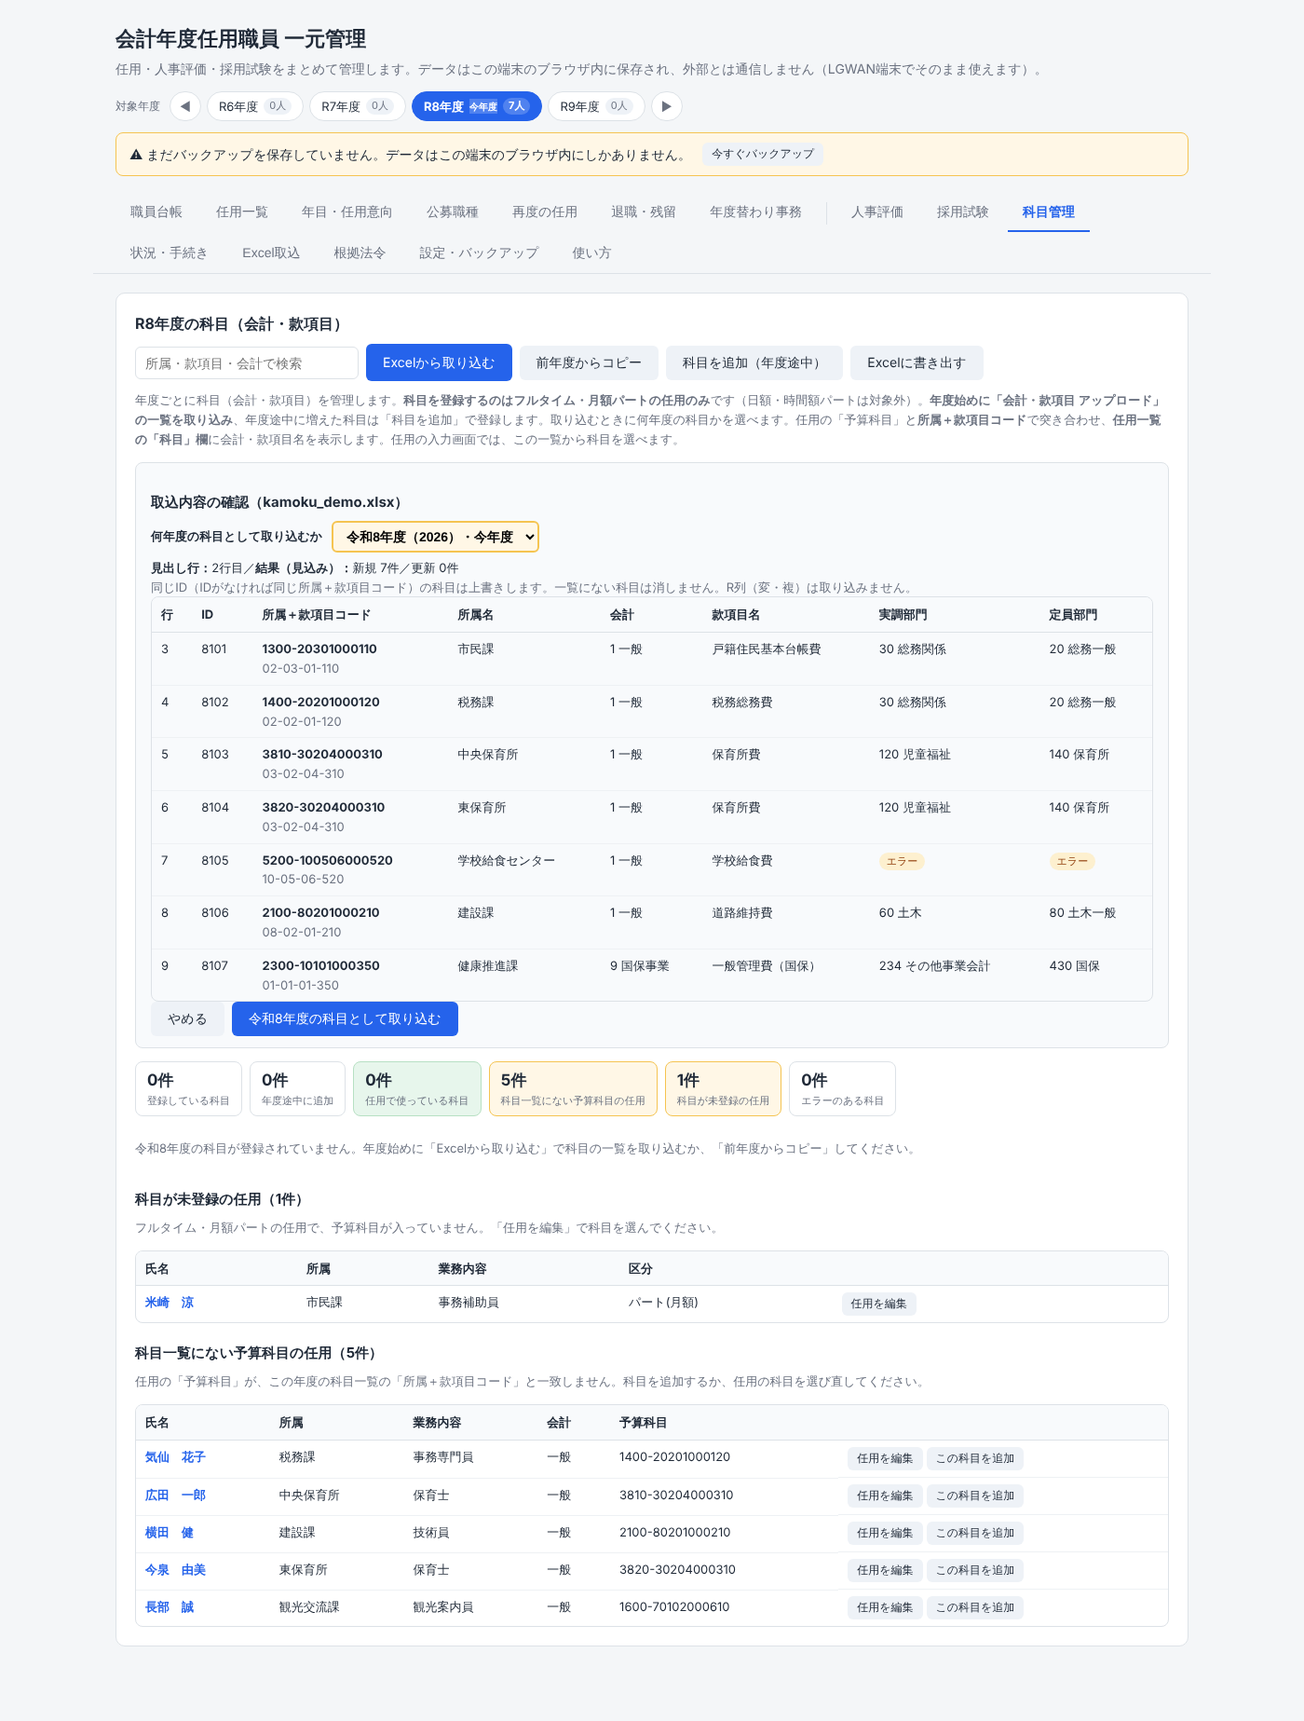
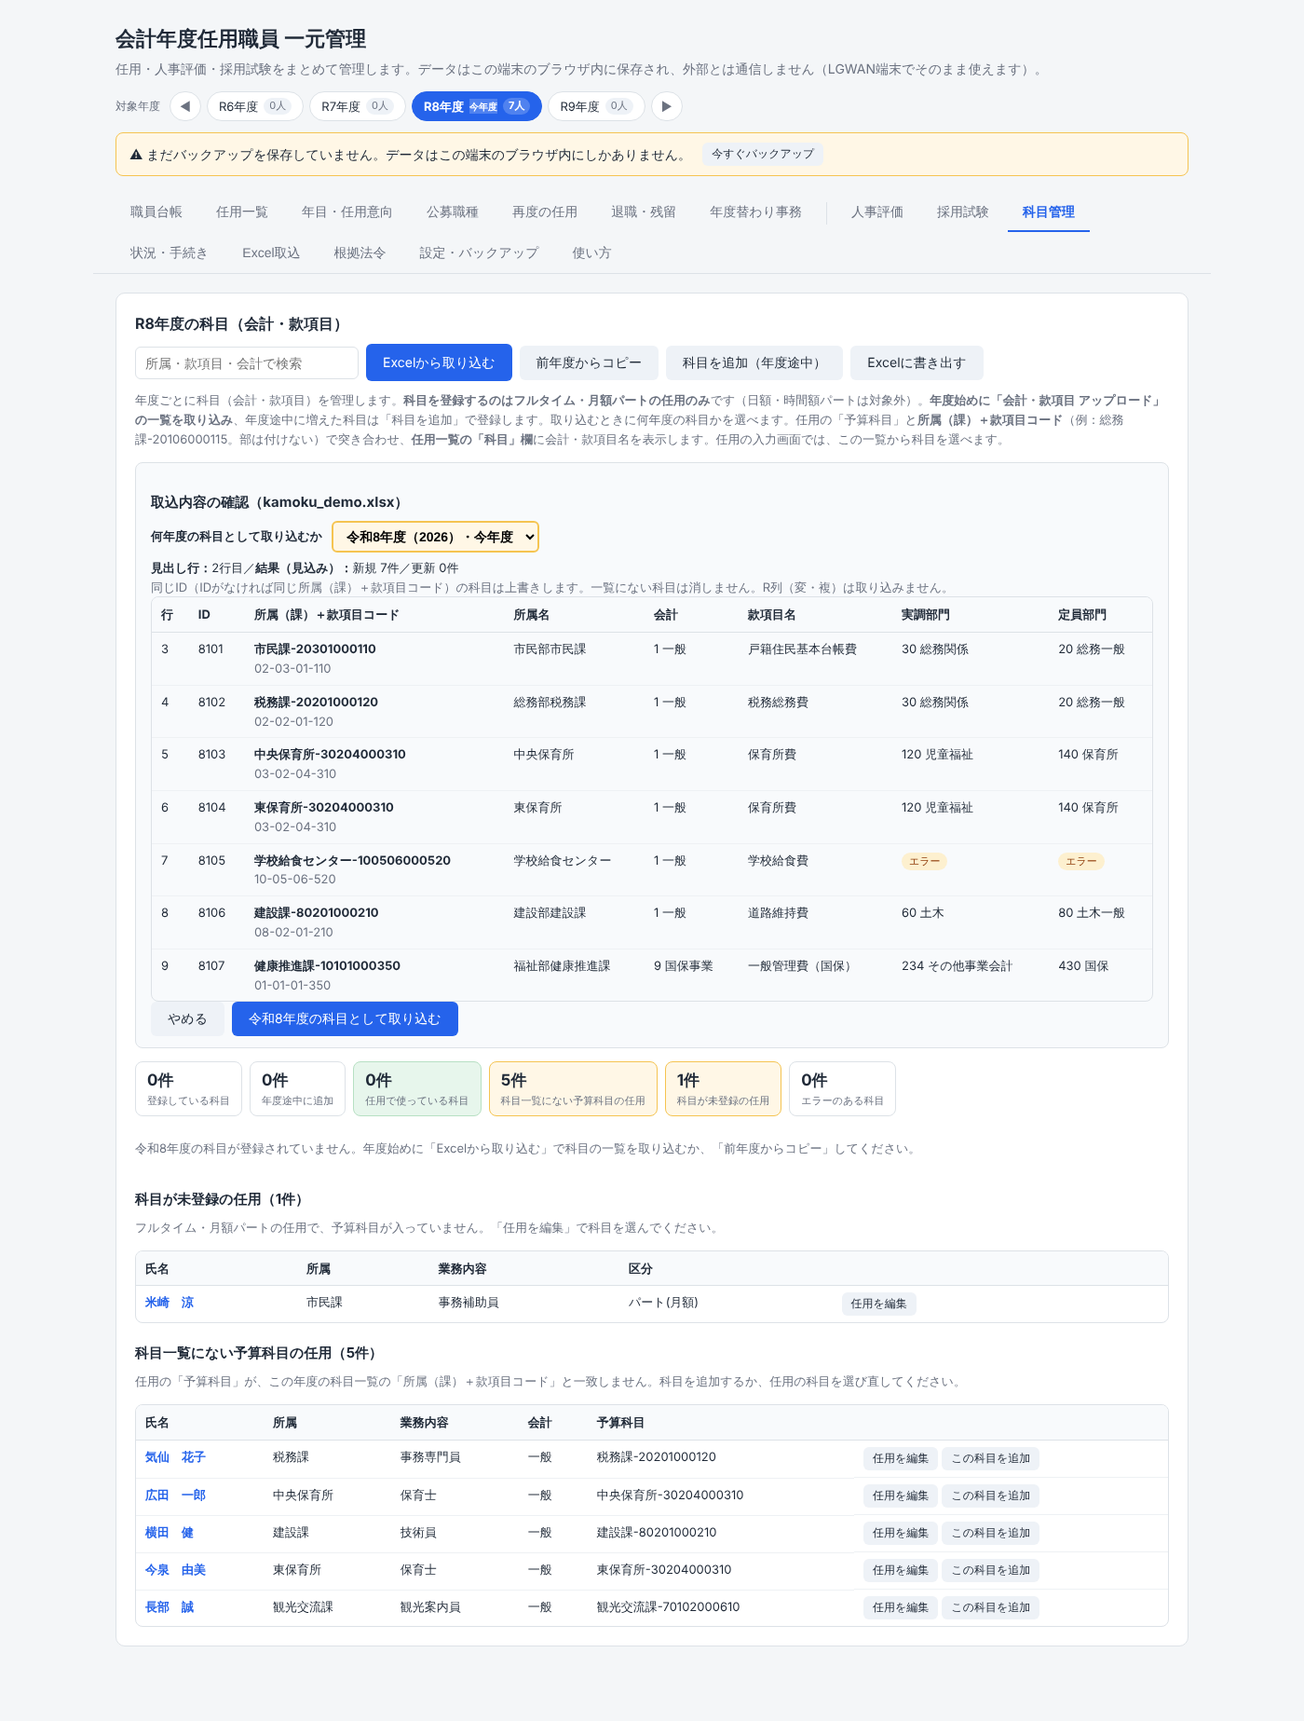
科目の表記を所属（課。部は付けない）＋款項目コードにする
Claude-Session: https://claude.ai/code/session_01TV6gLjN2w3tfB3MhK9eTKV

diff --git a/js/app.js b/js/app.js
@@ -615,7 +615,7 @@ function appointFields(fy = currentFy(), deptCode = '') {
     { key: 'title', label: '業務内容', required: true, placeholder: '例：保育士、事務補助員' },
     { key: 'kamokuSel', label: '科目（科目管理の一覧から選ぶ）', type: 'select', options: kamokuOptions(fy, deptCode), full: true, hint: 'フルタイム・月額パートのみ登録します（日額・時間額パートは対象外）。選ぶと会計・予算科目に入ります。一覧にない科目は科目管理で追加してください' },
     { key: 'account', label: '会計' },
-    { key: 'budgetCode', label: '予算科目', hint: '所属＋款項目コード（例：1050-20106000115）' },
+    { key: 'budgetCode', label: '予算科目', hint: '所属（課）＋款項目コード（例：総務課-20106000115）' },
     { type: 'heading', label: '任用期間・勤務時間' },
     { key: 'kubun', label: '区分', type: 'select', options: KUBUN_OPTIONS },
     { key: 'start', label: '任用期間（開始）', type: 'date', required: true },
@@ -2436,14 +2436,14 @@ function kamokuCell(a) {
 /** 任用の入力画面の科目の選択肢（同じ所属CDの科目を先に並べる） */
 function kamokuOptions(fy, deptCode) {
   const list = C.kamokuOfFy(DATA, fy).slice().sort((a, b) => (String(b.deptCode) === String(deptCode || '')) - (String(a.deptCode) === String(deptCode || ''))
-    || C.kamokuKey(a).localeCompare(C.kamokuKey(b)));
+    || String(a.deptCode).localeCompare(String(b.deptCode)) || String(a.code).localeCompare(String(b.code)));
   return [['', list.length ? '（選ばない・手入力）' : `${C.fyLabel(fy)}の科目が未登録です（科目管理で登録）`],
     ...list.map((k) => [k.id, `${kamokuLabel(k)}（${k.account}／${k.dept}）`])];
 }
 function renderKamoku() {
   const fy = currentFy();
   const q = document.getElementById('kamoku-search').value.trim();
-  const all = C.kamokuOfFy(DATA, fy).slice().sort((a, b) => C.kamokuKey(a).localeCompare(C.kamokuKey(b)));
+  const all = C.kamokuOfFy(DATA, fy).slice().sort((a, b) => String(a.deptCode).localeCompare(String(b.deptCode)) || String(a.code).localeCompare(String(b.code)));
   const rows = all.filter((k) => !q || C.KAMOKU_FIELDS.some(([f]) => String(k[f] || '').includes(q)));
   const used = new Map(all.map((k) => [k.id, C.appointmentsOfKamoku(DATA, k).length]));
   const targets = DATA.appointments.filter((a) => a.status !== 'canceled' && a.start && C.fiscalYearOf(a.start) === fy && C.kamokuApplies(a));
@@ -2459,7 +2459,7 @@ function renderKamoku() {
     ['エラーのある科目', `${all.filter((k) => C.KAMOKU_FIELDS.some(([f]) => /エラー/.test(k[f] || ''))).length}件`],
   ]);
   document.getElementById('kamoku-table').innerHTML = tableHtml(
-    ['ID', '所属＋款項目コード', '所属名', '会計', '款項目名', '実調部門', '定員部門', '任用', ''],
+    ['ID', '所属（課）＋款項目コード', '所属名', '会計', '款項目名', '実調部門', '定員部門', '任用', ''],
     rows.map((k) => {
       const sub = [k.subDept, k.subAccount, k.subKamoku].some((v, i) => v && v !== [k.deptCode, k.accountCode, k.display][i]);
       return `<tr>
@@ -2479,7 +2479,7 @@ function renderKamoku() {
     <p class="hint">フルタイム・月額パートの任用で、予算科目が入っていません。「任用を編集」で科目を選んでください。</p>
     ${tableHtml(['氏名', '所属', '業務内容', '区分', ''], missing.map((a) => `<tr><td>${nameLink(a.staffId)}</td><td>${escapeHtml(a.dept)}</td><td>${escapeHtml(a.title)}</td>
       <td>${C.KUBUN_LABEL[C.kubunOf(a)]}</td><td class="actions"><button class="btn-small" data-km-appt="${a.id}">任用を編集</button></td></tr>`))}` : '') + (unmatched.length ? `<h3>科目一覧にない予算科目の任用（${unmatched.length}件）</h3>
-    <p class="hint">任用の「予算科目」が、この年度の科目一覧の「所属＋款項目コード」と一致しません。科目を追加するか、任用の科目を選び直してください。</p>
+    <p class="hint">任用の「予算科目」が、この年度の科目一覧の「所属（課）＋款項目コード」と一致しません。科目を追加するか、任用の科目を選び直してください。</p>
     ${tableHtml(['氏名', '所属', '業務内容', '会計', '予算科目', ''], unmatched.map((a) => `<tr><td>${nameLink(a.staffId)}</td><td>${escapeHtml(a.dept)}</td><td>${escapeHtml(a.title)}</td>
       <td>${escapeHtml(a.account)}</td><td>${escapeHtml(a.budgetCode)}</td>
       <td class="actions"><button class="btn-small" data-km-appt="${a.id}">任用を編集</button><button class="btn-small" data-km-from="${a.id}">この科目を追加</button></td></tr>`))}` : '');
@@ -2501,9 +2501,8 @@ function renderKamoku() {
   root.querySelectorAll('[data-km-appt]').forEach((b) => (b.onclick = () => openAppointForm(DATA.appointments.find((a) => a.id === b.dataset.kmAppt))));
   root.querySelectorAll('[data-km-from]').forEach((b) => (b.onclick = () => {
     const a = DATA.appointments.find((x) => x.id === b.dataset.kmFrom);
-    const [dc, ...rest] = String(a.budgetCode).split('-');
-    const hasDept = rest.length && /^\d+$/.test(rest.join(''));
-    openKamokuForm(null, { deptCode: hasDept ? dc : a.deptCode, dept: a.dept, account: a.account, code: hasDept ? rest.join('-') : a.budgetCode });
+    const code = (C.normBudget(a.budgetCode).match(/(\d{6,})$/) || [])[1] || a.budgetCode;
+    openKamokuForm(null, { deptCode: a.deptCode, dept: a.dept, account: a.account, code });
   }));
   renderKamokuImport();
 }
@@ -2513,7 +2512,7 @@ function openKamokuForm(k, preset = {}) {
     required: key === 'deptCode' || key === 'code' || key === 'name', placeholder: key === 'code' ? '例：20106000115' : key === 'display' ? '例：02-01-06-115' : '' }));
   openForm(k ? '科目を編集' : `${fyShort(fy)}年度の科目を追加`, fields, k || preset, (v) => {
     const dup = C.kamokuOfFy(DATA, k ? k.fy : fy).find((x) => x !== k && C.normBudget(C.kamokuKey(x)) === C.normBudget(C.kamokuKey(v)));
-    if (dup) return '<p class="error-text">同じ所属＋款項目コードの科目がすでにあります。</p>';
+    if (dup) return '<p class="error-text">同じ所属（課）＋款項目コードの科目がすでにあります。</p>';
     if (k) Object.assign(k, v, { updatedAt: todayISO() });
     else DATA.kamoku.push({ id: C.uid('km'), fy, ...v, source: 'manual', createdAt: todayISO() });
     saveData();
@@ -2546,9 +2545,9 @@ function renderKamokuImport() {
     <div class="nensu-fy"><label><strong>何年度の科目として取り込むか</strong>
       <select id="km-fy">${years.map((y) => `<option value="${y}"${y === ki.fy ? ' selected' : ''}>${C.fyLabel(y)}（${y}）${y === baseFy ? '・今年度' : y === baseFy + 1 ? '・翌年度' : ''}</option>`).join('')}</select></label></div>
     <div><strong>見出し行：</strong>${ki.headerRow + 1}行目／<strong>結果（見込み）：</strong>新規 ${plan.add}件／更新 ${plan.update}件${ki.skipped.length ? `／取り込まない行 ${ki.skipped.length}件` : ''}</div>
-    <small class="muted">同じID（IDがなければ同じ所属＋款項目コード）の科目は上書きします。一覧にない科目は消しません。R列（変・複）は取り込みません。</small>
+    <small class="muted">同じID（IDがなければ同じ所属（課）＋款項目コード）の科目は上書きします。一覧にない科目は消しません。R列（変・複）は取り込みません。</small>
     ${ki.skipped.length ? `<details><summary>取り込まない行</summary><ul>${ki.skipped.map((x) => `<li>${x.row}行目：${escapeHtml(x.reason)}</li>`).join('')}</ul></details>` : ''}
-    ${tableHtml(['行', 'ID', '所属＋款項目コード', '所属名', '会計', '款項目名', '実調部門', '定員部門'], ki.records.slice(0, 200).map((r) =>
+    ${tableHtml(['行', 'ID', '所属（課）＋款項目コード', '所属名', '会計', '款項目名', '実調部門', '定員部門'], ki.records.slice(0, 200).map((r) =>
       `<tr><td>${r._row}</td><td>${escapeHtml(r.srcId)}</td><td><strong>${escapeHtml(C.kamokuKey(r))}</strong>${r.display ? `<br><small class="muted">${escapeHtml(r.display)}</small>` : ''}</td><td>${escapeHtml(r.dept)}</td><td>${escapeHtml(r.accountCode)} ${escapeHtml(r.account)}</td>
       <td>${escapeHtml(r.name)}</td><td>${escapeHtml(r.jicchoCode)} ${errCell(r.jicchoName)}</td><td>${escapeHtml(r.teiinCode)} ${errCell(r.teiinName)}</td></tr>`), '取り込む科目がありません。')}
     <div class="row-actions"><button class="btn-secondary" id="km-cancel">やめる</button>
@@ -2579,7 +2578,7 @@ function copyKamokuFromPrev() {
 }
 function exportKamoku() {
   const fy = currentFy();
-  const rows = [['ID', '所属', '所属名', '財務', '', '会計', '会計名', '款項目コード', '款項目表示', '款項目名', 'サブ所属', 'サブ会計', 'サブ科目', '実調部門cd', '実調部門名', '定員部門cd', '定員部門名', '所属＋款項目コード', '登録', '任用件数']];
+  const rows = [['ID', '所属', '所属名', '財務', '', '会計', '会計名', '款項目コード', '款項目表示', '款項目名', 'サブ所属', 'サブ会計', 'サブ科目', '実調部門cd', '実調部門名', '定員部門cd', '定員部門名', '所属（課）＋款項目コード', '登録', '任用件数']];
   C.kamokuOfFy(DATA, fy).forEach((k) => rows.push([k.srcId, k.deptCode, k.dept, k.zaimuCode, k.zaimuName, k.accountCode, k.account, k.code, k.display, k.name,
     k.subDept, k.subAccount, k.subKamoku, k.jicchoCode, k.jicchoName, k.teiinCode, k.teiinName, C.kamokuKey(k), k.source === 'manual' ? `年度途中に追加（${k.createdAt || ''}）` : '取込', C.appointmentsOfKamoku(DATA, k).length]));
   writeWorkbook(`${C.fyLabel(fy)}科目一覧_${stamp()}.xlsx`, [{ name: '科目', rows }]);

diff --git a/js/core.js b/js/core.js
@@ -1947,10 +1947,23 @@
     }
     return { records, skipped, headerRow, map };
   }
-  /** 科目の表記：所属＋款項目コード（例：1050-20106000115）。款項目コードがなければ款項目表示 */
+  /** 所属名から部を除く（例：総務部総務課 → 総務課）。部だけの所属はそのまま */
+  function deptShort(name) {
+    const s = String(name || '').trim();
+    const m = s.match(/^[^部]+部(.+)$/);
+    return m ? m[1] : s;
+  }
+  /** 科目の表記：所属（課）＋款項目コード（例：総務課-20106000115）。款項目コードがなければ款項目表示 */
   function kamokuKey(k) {
     const code = String(k.code || '').trim() || String(k.display || '').trim();
-    return k.deptCode ? `${String(k.deptCode).trim()}-${code}` : code;
+    const dept = deptShort(k.dept) || String(k.deptCode || '').trim();
+    return dept ? `${dept}-${code}` : code;
+  }
+  /** 突き合わせ用：区切り（ハイフン・空白）を除いた表記 */
+  function kamokuMatchKeys(k) {
+    const code = String(k.code || '').trim() || String(k.display || '').trim();
+    const strip = (v) => normBudget(v).replace(/-/g, '');
+    return [deptShort(k.dept), k.dept, k.deptCode].filter(Boolean).map((d) => strip(`${d}${code}`));
   }
   function kamokuOfFy(data, fy) {
     return (data.kamoku || []).filter((k) => Number(k.fy) === Number(fy));
@@ -1958,6 +1971,7 @@
   /** 同じ科目か（IDが同じ、またはIDがなく所属・会計・款項目表示が同じ） */
   function sameKamoku(a, b) {
     if (a.srcId && b.srcId) return String(a.srcId) === String(b.srcId);
+    if (a.deptCode && b.deptCode && String(a.deptCode) !== String(b.deptCode)) return false;
     return normBudget(kamokuKey(a)) === normBudget(kamokuKey(b));
   }
   /** 取り込む（同じ科目は上書き、ないものは追加）。apply=false なら件数だけ数える */
@@ -1982,15 +1996,17 @@
     return importKamoku(data, toFy, list, true).add;
   }
   /**
-   * 任用の科目（任用の年度の科目一覧から、予算科目＝「所属＋款項目コード」で探す）。
-   * 以前の入力（款項目コード・款項目表示だけ）も読み、そのときは所属CDが合うものを選ぶ。
+   * 任用の科目（任用の年度の科目一覧から、予算科目＝「所属（課）＋款項目コード」で探す）。
+   * 所属を部から書いたもの・所属CDで書いたもの、以前の入力（款項目コード・款項目表示だけ）も読み、
+   * 款項目だけのときは所属CDが合うものを選ぶ。
    */
   function kamokuOfAppointment(data, appt) {
     const key = normBudget(appt.budgetCode);
     if (!key || !appt.start) return null;
     const digits = key.replace(/\D/g, '');
     const all = kamokuOfFy(data, fiscalYearOf(appt.start));
-    const full = all.find((k) => normBudget(kamokuKey(k)) === key || (digits && kamokuKey(k).replace(/\D/g, '') === digits));
+    const stripped = key.replace(/-/g, '');
+    const full = all.find((k) => kamokuMatchKeys(k).includes(stripped));
     if (full) return full;
     const list = all.filter((k) => normBudget(k.code) === key || normBudget(k.display) === key
       || (digits && (String(k.code).replace(/\D/g, '') === digits || String(k.display).replace(/\D/g, '') === digits)));
@@ -2023,7 +2039,7 @@
     evaluationFor, hasGrades, suggestOverall, missingEvaluations, buildNextYearPlan,
     RETIRE_LABEL, CONTINUATION_LABEL, latestAppointmentsOfFy, continuationStatus, recruitNeeds, careerOf, fiscalYearSummary, fiscalYearsInData,
     applicantTotal, rankApplicants,
-    KAMOKU_FIELDS, normBudget, kamokuKey, parseKamoku, kamokuOfFy, importKamoku, copyKamoku, kamokuOfAppointment, appointmentsOfKamoku, kamokuApplies,
+    KAMOKU_FIELDS, normBudget, deptShort, kamokuKey, parseKamoku, kamokuOfFy, importKamoku, copyKamoku, kamokuOfAppointment, appointmentsOfKamoku, kamokuApplies,
     YEAR_END_NOTICES, YEAR_END_SRC, insuranceNa, isClosedDay, toBusinessDay, yearEndNoticeDates, yearEndStepDate, ensureYearEnd, yearEndTargets, yearEndView, yearEndState,
     normalizeHeader, detectColumns, excelValueToISO, parseFiscalYear, parseGender, rowsToRecords, findStaff,
   };

diff --git a/index.html b/index.html
@@ -234,7 +234,7 @@
           <button class="btn-secondary" id="btn-kamoku-export">Excelに書き出す</button>
         </div>
       </div>
-      <p class="hint">年度ごとに科目（会計・款項目）を管理します。<strong>科目を登録するのはフルタイム・月額パートの任用のみ</strong>です（日額・時間額パートは対象外）。<strong>年度始めに「会計・款項目 アップロード」の一覧を取り込み</strong>、年度途中に増えた科目は「科目を追加」で登録します。取り込むときに何年度の科目かを選べます。任用の「予算科目」と<strong>所属＋款項目コード</strong>で突き合わせ、<strong>任用一覧の「科目」欄</strong>に会計・款項目名を表示します。任用の入力画面では、この一覧から科目を選べます。</p>
+      <p class="hint">年度ごとに科目（会計・款項目）を管理します。<strong>科目を登録するのはフルタイム・月額パートの任用のみ</strong>です（日額・時間額パートは対象外）。<strong>年度始めに「会計・款項目 アップロード」の一覧を取り込み</strong>、年度途中に増えた科目は「科目を追加」で登録します。取り込むときに何年度の科目かを選べます。任用の「予算科目」と<strong>所属（課）＋款項目コード</strong>（例：総務課-20106000115。部は付けない）で突き合わせ、<strong>任用一覧の「科目」欄</strong>に会計・款項目名を表示します。任用の入力画面では、この一覧から科目を選べます。</p>
       <div id="kamoku-preview"></div>
       <div id="kamoku-summary" class="mini-stats"></div>
       <div id="kamoku-table"></div>

diff --git a/README.md b/README.md
@@ -19,7 +19,7 @@
 | 再度の任用 | 可否「可」・本人「希望する」・4年目にならない職員の一覧。チェックして翌年度に一括登録、Excel出力 |
 | 退職・残留 | 翌年度に残る人・残らない人の一覧と件数。任期満了・自己都合などの退職登録（年度途中は任期を短縮）と退職手続きのチェック（申送事項「退職処理」） |
 | 年度替わり事務 | 総務課（職員係）が出す通知ごと（任用希望調査／再度の任用に係る確認／募集方法／再度の任用／選考方法／年度切替の事務手続き）に、通知→取りまとめ→データ確定（募集方法は通知→求人確認、再度の任用・年度切替は予算議決の確認つき）の進み具合と、課ごとの回答の状況（未・済・該当なし。退職者は資格確認証・タイムカード・名札ケース）を記録。4月の新規採用者の資格取得・退職者の資格喪失の手続きも職員ごとに記録（社会保険・雇保／退手の入力から対象外の欄を判定）。**年度を開くと自動で作成**。日付は令和8年度任用の総務課長通知の日程をもとに土日・祝日・年末年始を避けて計算（変更可）。次にやる作業は「状況・手続き」にも表示 |
-| 科目管理 | 年度ごとの科目（会計・款項目）。科目を登録するのはフルタイム・月額パートの任用のみ（日額・時間額パートは対象外）。**年度始めに「会計・款項目 アップロード」の一覧をExcelで取込**（何年度の科目かを選択。同じIDは上書き）、年度途中の追加・編集・削除、前年度からコピー、Excel書き出し。任用の予算科目と「所属＋款項目コード」で突き合わせ、任用一覧の「科目」欄に会計・款項目名を表示。一覧にない予算科目の任用も確認できる |
+| 科目管理 | 年度ごとの科目（会計・款項目）。科目を登録するのはフルタイム・月額パートの任用のみ（日額・時間額パートは対象外）。**年度始めに「会計・款項目 アップロード」の一覧をExcelで取込**（何年度の科目かを選択。同じIDは上書き）、年度途中の追加・編集・削除、前年度からコピー、Excel書き出し。任用の予算科目と「所属（課）＋款項目コード」（例：総務課-20106000115。部は付けない）で突き合わせ、任用一覧の「科目」欄に会計・款項目名を表示。一覧にない予算科目の任用も確認できる |
 | （画面上部の知らせ） | フルタイムの**共済（短期）→共済（12月経過）・雇用保険→退職手当（6月経過）の切替**は、切替日の**前月10日**から全タブの上部に赤枠で表示（例：7/1切替→6/10から）。「手続き済み」で消える。切替日を過ぎても60日までは表示し続ける |
 | 人事評価 | 年度ごとの評価項目・総合評価・所見の入力 |
 | 採用試験 | 競争試験／選考の登録、応募者、得点・順位、合格者の提出書類、合格者を台帳・任用へ登録 |
